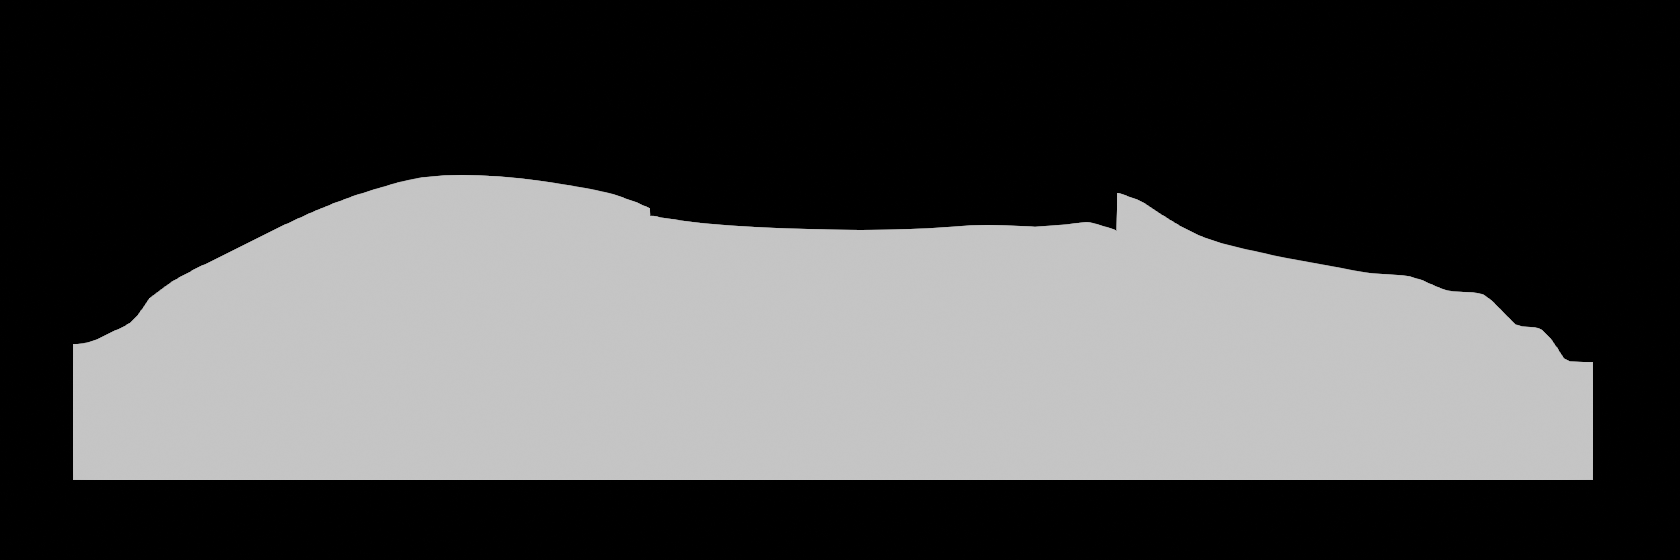
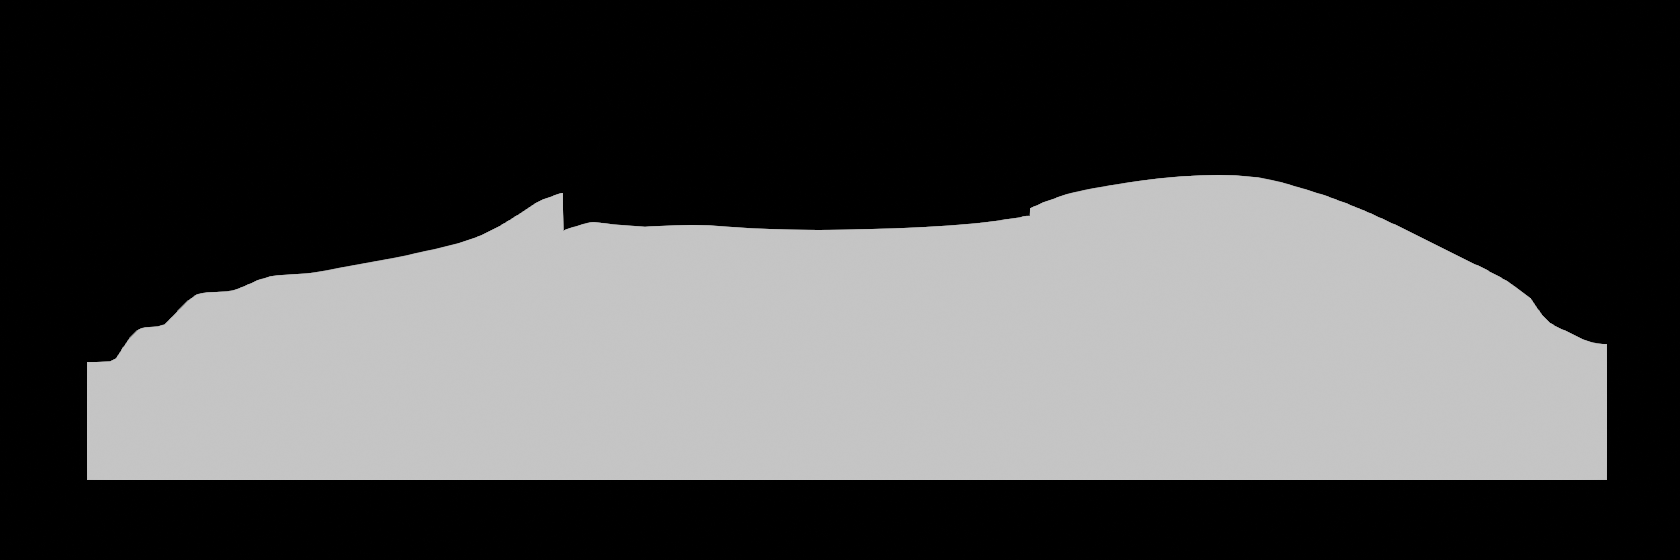
The overlay camera was mirrored; withdraw its numbers and add the check that would have caught it
A Blender camera at -Y with rotation (90, 0, 0) looks along +Y, but its right axis lands on repo +X,
which is forward. The render therefore came out with the nose on the right, the opposite of ref-05,
and the whole comparison table was reading our nose against the reference's tail. The findings it
produced -- the rear sitting 247 mm low and the tail running 256 mm long -- are withdrawn.

The camera now sits at +Y with rotation (90, 0, 180), so image +x is spec X rearward. The check that
was missing, and whose absence let this through, is the obvious one: compare the render against the
mesh it was made from. At eight rear stations they now agree to 3 mm, and the render spans
-950 to 3418, which is the locked 4370.

What is actually true:

  mean difference across sixteen comparable stations   95 mm, not 136
  front, spec X -900 to +300                           the model is 17 to 147 mm BELOW the render,
                                                       worst at -300 to 0, which is the front
                                                       fender crown
  rear, spec X 2100 back                               93 mm below, not 247
  tail                                                 297 mm longer than the render; the nose
                                                       agrees to 63 mm

The lesson is the one the perturbation sweep already taught: what was missing was not care, it was a
[…]

Changed region(s): [[0.5262, 0.3036, 0.9595, 0.85], [0.031, 0.3036, 0.4643, 0.85]]

diff --git a/01_CAD/scripts/silhouette_overlay.py b/01_CAD/scripts/silhouette_overlay.py
@@ -14,6 +14,13 @@ between them is the wheelbase, 2415 mm from the workshop manual. That gives 2.87
 line comes from the same two centres plus OUR tyre radii, and the two estimates of it agree to 7 px,
 which is 20 mm -- that disagreement is the honest error bar on everything below.
 
+THE CAMERA MUST FACE THE SAME WAY AS THE PICTURE, and getting that wrong is silent. A Blender
+camera at -Y with rotation (90, 0, 0) looks along +Y with its right axis on repo +X, which is
+FORWARD -- so the render came out mirrored, nose on the right, and the first full comparison table
+read our nose against the reference's tail and called it a 247 mm error in the rear deck. The
+camera now sits at +Y looking -Y, image +x is spec X rearward, and the render agrees with the mesh
+to 3 mm at eight rear stations. That check runs in the report below.
+
 WHAT THIS CANNOT DO. It compares OUTLINES. Two cars with the same silhouette and completely
 different surfaces read identical here, and docs/16 is explicit that the language lives in the
 curvature rather than the outline. A difference this finds is real; an agreement it reports is not a
@@ -184,9 +191,10 @@ def main():
             m = np.mean([r[3] for r in rear])
             print(f"   REAR, spec X 2100 and back: the model sits {abs(m):.0f} mm "
                   f"{'BELOW' if m < 0 else 'above'} the reference, consistently")
-            print("   That is the deck decision of 2026-09-14 showing up as a number: the deck came")
-            print("   down 960 -> 880 and the buttress 1090 -> 985 because the render's heights sat")
-            print("   inside the roof fold volume. This measures what that compromise cost.")
+            print("   The deck decision of 2026-09-14 -- deck 960 -> 880, buttress 1090 -> 985,")
+            print("   taken because the render's heights sat inside the roof fold volume -- is what")
+            print("   this measures the cost of.")
+
         print("\n   A difference here is real. An agreement is NOT a pass: this compares OUTLINES,")
         print("   and docs/16 says the language lives in the curvature, not the outline.")
 

diff --git a/docs/09-decision-log.md b/docs/09-decision-log.md
@@ -55,6 +55,23 @@
   рендера, докато нашата опашка е по-ниска от неговата. Не са поправени: или лампите слизат, или
   опашката се вдига, и това е дизайнерско решение. Зоната LIGHTS е извън обхвата на CHECKPOINT 01.
 
+- 2026-09-16 (нощ, след края) — **ОТТЕГЛЯМ числата от предния запис: камерата беше огледална.**
+  Blender камера на −Y с ротация (90, 0, 0) гледа по +Y, но дясната ѝ ос ляга върху repo +X, което е
+  **напред**. Рендърът излизаше с носа надясно — обратно на `ref-05` — и цялата таблица сравняваше
+  **нашия нос срещу опашката на референцията**. Оттам „задницата стои 247 mm по-ниско" и „опашката е
+  256 mm по-дълга". И двете са грешни.
+  Камерата е преместена на +Y с ротация (90, 0, 180). Проверката, която липсваше и заради която
+  грешката мина: **рендърът срещу самия меш** на осем задни станции — съвпада до **3 mm**, а обхватът
+  е −950..3418, тоест точно заключените 4370.
+  **Вярното:**
+  - средно отклонение **95 mm** през 16 станции (не 136)
+  - **предница, specX −900..+300: моделът е 17–147 mm ПО-НИСКО**, най-зле при
+    **specX −300..0 (−144, −147, −129)** — тоест короната на предния калник
+  - **задница, specX 2100..3000: 93 mm по-ниско**, не 247
+  - **опашка: 297 mm по-дълга** от рендера; носът съвпада до 63 mm
+  Поуката е същата като при развъртането: **липсваше проверка, че инструментът мери това, което
+  мисля.** Сега тя е в скрипта — рендърът се сверява с меша, преди да се сравнява с картинката.
+
 - 2026-09-16 (нощ, край) — **„Прилича ли на картинката" вече е число.**
   `silhouette_overlay.py` слага модела и `ref-05` в **една координатна система** и мери профила
   станция по станция. Страничният изглед на референцията е достатъчно ортогонален, за да го

diff --git a/CLAUDE.md b/CLAUDE.md
@@ -458,6 +458,13 @@ branches and never let them diverge for more than one session.
   1411 mm — фонова винетка и заливане върху подплатено платно. **Находка: `ref-07` и `ref-08` ги
   няма в репото**, макар `CLAUDE.md` да ги сочи като визуален авторитет.
 
+- 2026-09-16 (local, 8): **оттеглени числата от (local, 7) — камерата беше огледална.** Ротация
+  (90,0,0) слага дясната ос на камерата върху repo +X, което е напред, тоест рендърът беше с носа
+  надясно и таблицата сравняваше нашия нос срещу опашката на рендера. Поправено (камера на +Y,
+  ротация 90,0,180) и добавена липсващата проверка: **рендърът срещу самия меш съвпада до 3 mm**.
+  Вярното: средно **95 mm**; **предницата е 17–147 mm по-ниска**, най-зле при specX −300..0 —
+  короната на предния калник; **задницата 93 mm** по-ниска, не 247; опашката **297 mm** по-дълга.
+
 - **Текуща база: `02_DESIGN/exterior/STATEV_001_v019.blend`. Откат: v018.**
   Авторитетни източници: геометрия — v019.blend, регенерируем от `statev_master_volumes.py`;
   измервания — `04_ENGINEERING/reports/v019_report.txt`; решения — `docs/09-decision-log.md`;
